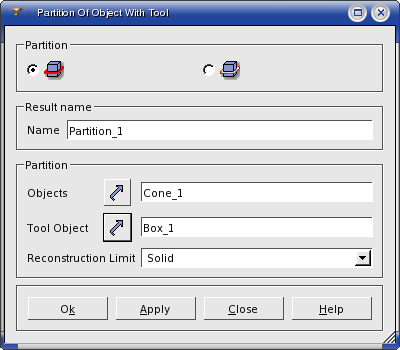
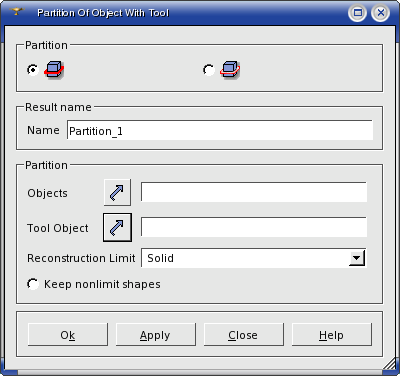
Adding "Keep nonlimit shapes" checkbox

diff --git a/doc/salome/gui/GEOM/partition.htm b/doc/salome/gui/GEOM/partition.htm
@@ -19,7 +19,7 @@ p.whs2 { font-size:12pt; }
 p.whs3 { font-size:12pt; font-weight:normal; }
 p.whs4 { font-weight:bold; font-size:14pt; }
 p.whs5 { font-size:12pt; margin-left:40px; }
-img_whs6 { border:none; width:400px; height:350px; float:none; border-style:none; }
+img_whs6 { border:none; width:400px; height:376px; float:none; }
 img_whs7 { border:none; width:400px; height:324px; float:none; border-style:none; }
 img_whs8 { border:none; float:none; width:297px; height:245px; border-style:none; }
 img_whs9 { border:none; float:none; width:273px; height:245px; border-style:none; }
@@ -93,8 +93,8 @@ if (window.writeIntopicBar)
 <p class="whs3">&nbsp;</p>
 
 <p class="whs3"><b><span style="font-weight: normal;">This 
- operation </b>builds a shape by intersection of two shapes or a shape 
- and a plane.</span></p>
+ operation </b>builds a compound by intersection of several shapes with 
+ a tool object or a plane.</span></p>
 
 <p class="whs2"><b style="font-weight: bold;"><span style="font-weight: normal;">The</span> 
  Result <span style="font-weight: normal;">will be any</span> </b>GEOM_Object.</p>
@@ -108,7 +108,7 @@ if (window.writeIntopicBar)
 
 <p class="whs3">As far as the intersection 
  of two objects can produce any type of geometrical objects, <span style="font-weight: bold;"><B>Reconstruction 
- Limit</B></span> box allows to choose the preferrable result, i.e. a solid, 
+ Limit</B></span> box allows choosing the preferrable result, i.e. a solid, 
  a shell, a list of faces, etc.</p>
 
 <p class="whs2"><b style="font-weight: bold;">TUI Command:</b><i> 
@@ -123,15 +123,19 @@ if (window.writeIntopicBar)
  PartitionAlgo other parameters are ignored by the current functionality 
  and remain there only to support the old scripts. &nbsp;</p>
 
-<p class="whs2"><b>Arguments:</b> Name + 2 lists of shapes 
- (the shapes from the first list will be intersected with the shapes from 
- the second list) + reconstruction limit.</p>
+<p class="whs2"><b style="font-weight: bold;">Arguments:</b> 
+ Name + 2 lists of shapes (the shapes from the first list will be intersected 
+ with the shapes from the second list) + reconstruction limit.</p>
 
 <p class="whs2">&nbsp;</p>
 
-<p class="whs5"><img src="pics/partition1.png" x-maintain-ratio="TRUE" width="400px" height="350px" border="0" class="img_whs6"></p>
+<p class="whs5"><img src="pics/partition1.png" x-maintain-ratio="TRUE" width="400px" height="376px" border="0" class="img_whs6"></p>
 
 <p class="whs2">&nbsp;</p>
+
+<p class="whs2"><span style="font-weight: bold;"><B>Keep nonlimit 
+ shapes</B></span> checkbox allows building geometrical objects of all types 
+ at the same time i.e. no reconstruction limit is applied. </p>
 
 <p class="whs2">&nbsp;</p>
 
@@ -141,13 +145,13 @@ if (window.writeIntopicBar)
 <p class="whs2">&nbsp;</p>
 
 <p class="whs2"><span style="font-weight: bold;"><B>TUI Command</B></span> 
- &nbsp;<span style="font-style: italic;"><I>geompy.MakeHalfPartition(Shape, 
- Plane), </I></span>where<span style="font-style: italic;"><I> Shape</I></span> is 
- a Shape to be intersected and <span style="font-style: italic;"><I>Plane</I></span> 
- is a Tool shape, to intersect the <span style="font-style: italic;"><I>Shape</I></span>.</p>
+ &nbsp;<span style="font-style: italic;"><I>geompy.MakeHalfPartition(Shapes, 
+ Plane), </I></span>where<span style="font-style: italic;"><I> Shapes</I></span> are 
+ a list of Shapes to be intersected and <span style="font-style: italic;"><I>Plane</I></span> 
+ is a Tool shape, to intersect the <span style="font-style: italic;"><I>Shapes</I></span>.</p>
 
 <p class="whs2"><b style="font-weight: bold;">Arguments: </b>Name 
- + 1 shape which will be intersected + 1 cutting face.</p>
+ + a list of shapes which will be intersected + 1 cutting plane.</p>
 
 <p class="whs2">&nbsp;</p>
 
